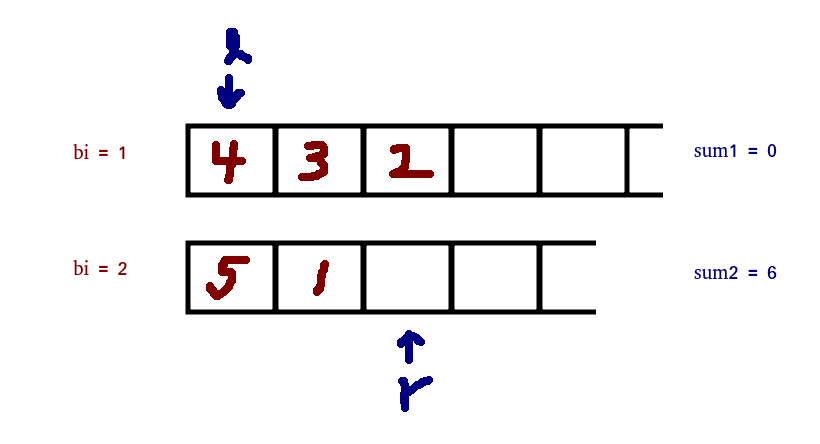
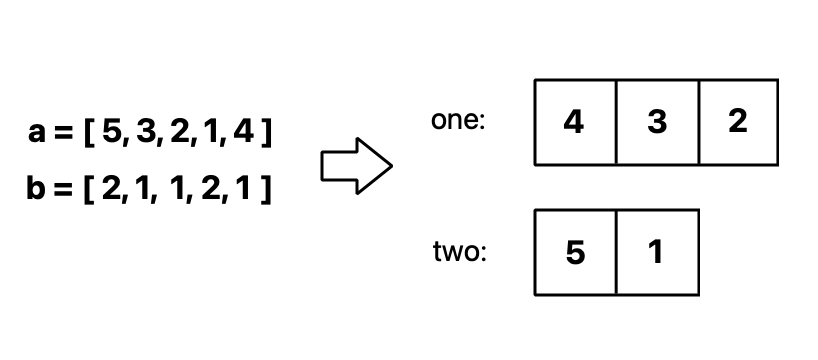
:pencil2: translate: codeforces-1475D

diff --git a/_posts/2021-01-30-codeforces-1475D.md b/_posts/2021-01-30-codeforces-1475D.md
@@ -1,5 +1,5 @@
 ---
-title: "[Codeforces] 1475D. Cleaning the Phone 풀이"
+title: "[Codeforces] 1475D. Cleaning the Phone explained"
 excerpt: "Codeforces Round #697(Div.3) - problem D solution"
 header:
   overlay_image: /public/images/problem-solving-common-header.png
@@ -22,18 +22,43 @@ last_modified_at: 2021-12-31T16:26:00+09:00
 
 ## Key Idea
 
-> 같은 convenience point를 포기한다면, 용량이 큰 것을 지우는게 이득이다.  
+It's **"Two pointers"**.
 
-> CP가 1인 앱을 $$l$$개 지운다고 하면, 지워야할 CP 2짜리 앱의 갯수 $$r$$도 정해진다.  
+First, divide \\(a_i\\) into two separate arrays based on convenience point and **sort** them in descending order.  
+We call those arrays `one` and `two`, respectively.
 
-> convenience point( $$b_i$$ ) 별로 배열에 담아 sorting하고, $$l$$을 증가시키며 탐색.
+<img src="/public/images/codeforces-1475D-figure-1.png" title="figure.1"/>
 
-<img src="/public/images/codeforces-1475D-figure-1.png"/>
 
-각 $$l$$ 값에 따라 $$r$$ 값을 최대한 감소 시킨 후 convenience point를 계산.  
-여기서 $$l$$ 은 증가, $$r$$ 은 감소할 일밖에 없기 때문에 linear time 안에 탐색이 가능해진다(Two pointers의 힘!).
+Say we pick `l` apps from `one`, and `r` apps from `two`.  
+We start by
 
-$$ Time $$ $$ Complexity: O(n) $$
+- `l`= 0
+- `r`= two.size()
+
+When we exclude apps that we already decided to delete(`r` apps), we greedily pick small sized apps first.  
+On the other hand, we pick big size apps first when we add new ones.
+
+At first, the sum of memories are `sum1` = 0, `sum2` = 6, respectively.
+
+<img src="/public/images/codeforces-1475D-figure-2.png" title="figure.2"/>  
+
+Now, **for** `l` = 0, 1, ... one.size() **do**:
+
+1. \\(sum2 = sum2 - two[r-1]\\) and decrement `r` until \\(sum1 + sum2 >= m\\) is satisfied.
+2. answer = min(answer, `l` + 2*`r`)
+3. \\(sum1 = sum1 + one[l]\\)
+
+<img src="/public/images/codeforces-1475D-figure-3.png" title="figure.3"/>
+
+<img src="/public/images/codeforces-1475D-figure-4.png" title="figure.4"/>
+
+<img src="/public/images/codeforces-1475D-figure-5.png" title="figure.5"/>
+
+It takes \\(O(n\log{n})\\) for sorting and \\(O(n)\\) for iteration.
+
+Time: $$O(n\log{n} + n)$$  
+Space: $$O(n)$$
 
 <br/>
 
@@ -42,53 +67,62 @@ $$ Time $$ $$ Complexity: O(n) $$
 
 ```cpp
 /**
- * author: jooncco
- * written: 2021. 1. 30. Sat. 00:16:12 [UTC+9]
+ * written: 2022-03-17 20:26:37 Thu [KST]
+ * @jooncco's mac.
  **/
-
 #include <bits/stdc++.h>
 using namespace std;
-using ll= long long;
-using ii= pair<int,int>;
-using vi= vector<int>;
-using di= deque<int>;
 
-const int INF= 1000000007;
-int t,n,m;
+#define FAST_IO ios_base::sync_with_stdio(0),cin.tie(0),cout.tie(0)
+#define f first
+#define s second
+typedef long long ll;
+typedef unsigned long long ull;
+typedef pair<int,int> pii;
+typedef pair<ll,ll> pll;
+typedef vector<int> vi;
+typedef vector<ll> vl;
+typedef deque<int> di;
+typedef deque<ll> dl;
+typedef priority_queue<int, vi, less<int> > maxHeap;
+typedef priority_queue<int, vi, greater<int> > minHeap;
+
+const ll INF= 1e16;
+
+int n,m;
+
+void solve() {
+    cin >> n >> m;
+    vi arr(n);
+    for (int &mem : arr) cin >> mem;
+    vi one, two;
+    int conv;
+    for (int i=0; i < n; ++i) {
+        cin >> conv;
+        if (conv == 1) one.push_back(arr[i]);
+        if (conv == 2) two.push_back(arr[i]);
+    }
+    sort(one.rbegin(), one.rend());
+    sort(two.rbegin(), two.rend());
+
+    ll ans= INF;
+    ll sum1= 0, sum2= accumulate(two.begin(), two.end(), 0ll);
+    int r= two.size();
+    for (int l=0; l <= one.size(); ++l) {
+        while (r > 0 && sum1 + sum2 - two[r-1] >= m) {
+            sum2 -= two[--r];
+        }
+        if (r > -1 && sum1 + sum2 >= m) ans= min(ans, l+2ll*r);
+        if (l < one.size()) sum1 += one[l];
+    }
+
+    cout << (ans == INF ? -1 : ans) << "\n";
+}
 
 int main() {
-
-    cin >> t;
-    while (t--) {
-        cin >> n >> m;
-        vi one,two;
-        vi arr(n);
-        for (int &e : arr) cin >> e;
-        int b;
-        for (int i=0; i < n; ++i) {
-            cin >> b;
-            if (b == 1) one.push_back(arr[i]);
-            if (b == 2) two.push_back(arr[i]);
-        }
-        sort(one.rbegin(),one.rend());
-        sort(two.rbegin(),two.rend());
-        ll sum1= 0, sum2= accumulate(two.begin(),two.end(),0ll);
-        ll ans= INF;
-        int r= two.size();
-        for (int l=0; l <= one.size(); ++l) {
-            while (r > 0 && sum1 + sum2 - two[r-1] >= m) {
-                sum2 -= two[r-1];
-                --r;
-            }
-            if (sum1 + sum2 >= m) {
-                ans= min(ans,l+2ll*r);
-            }
-            if (l < one.size()) {
-                sum1 += one[l];
-            }
-        }
-        cout << (ans == INF ? -1 : ans) << "\n";
-    }
+    FAST_IO;
+    int t; cin >> t;
+    while (t--) solve();
 }
 
 ```
